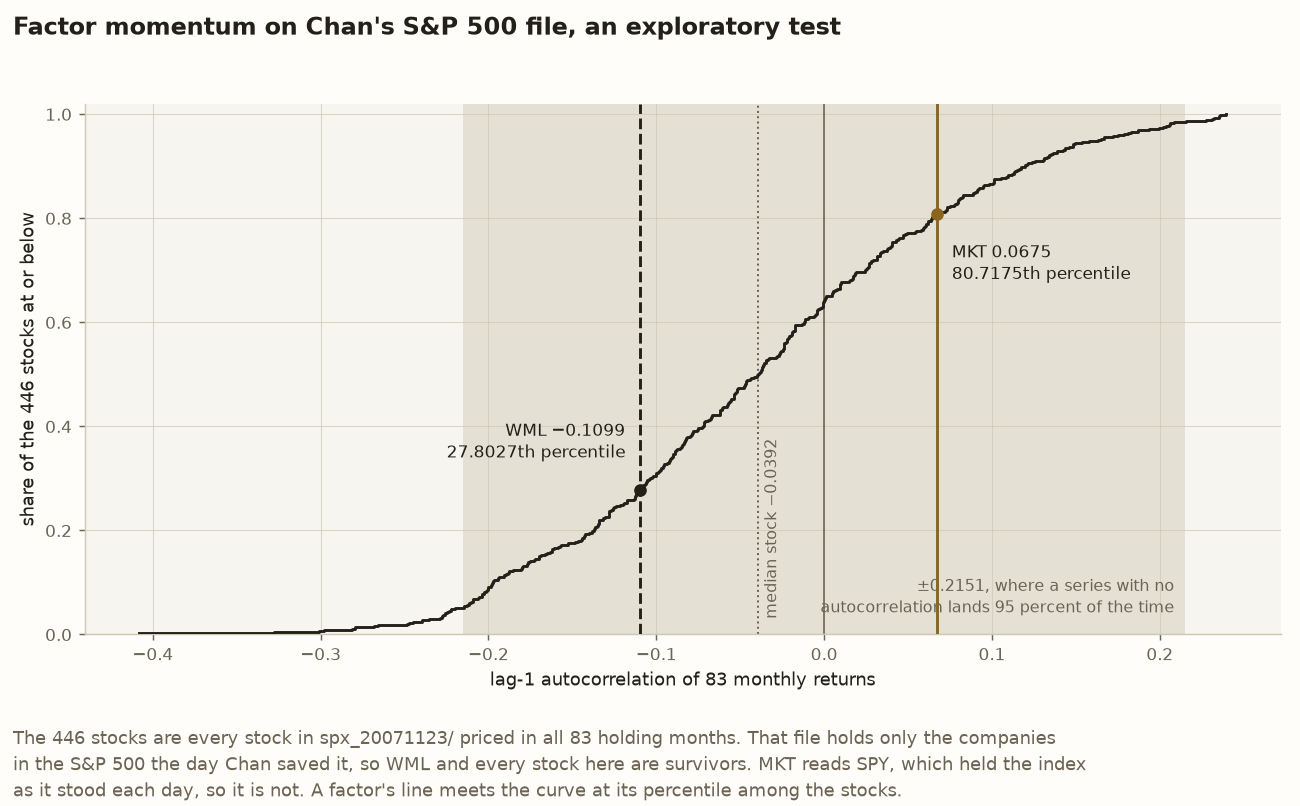
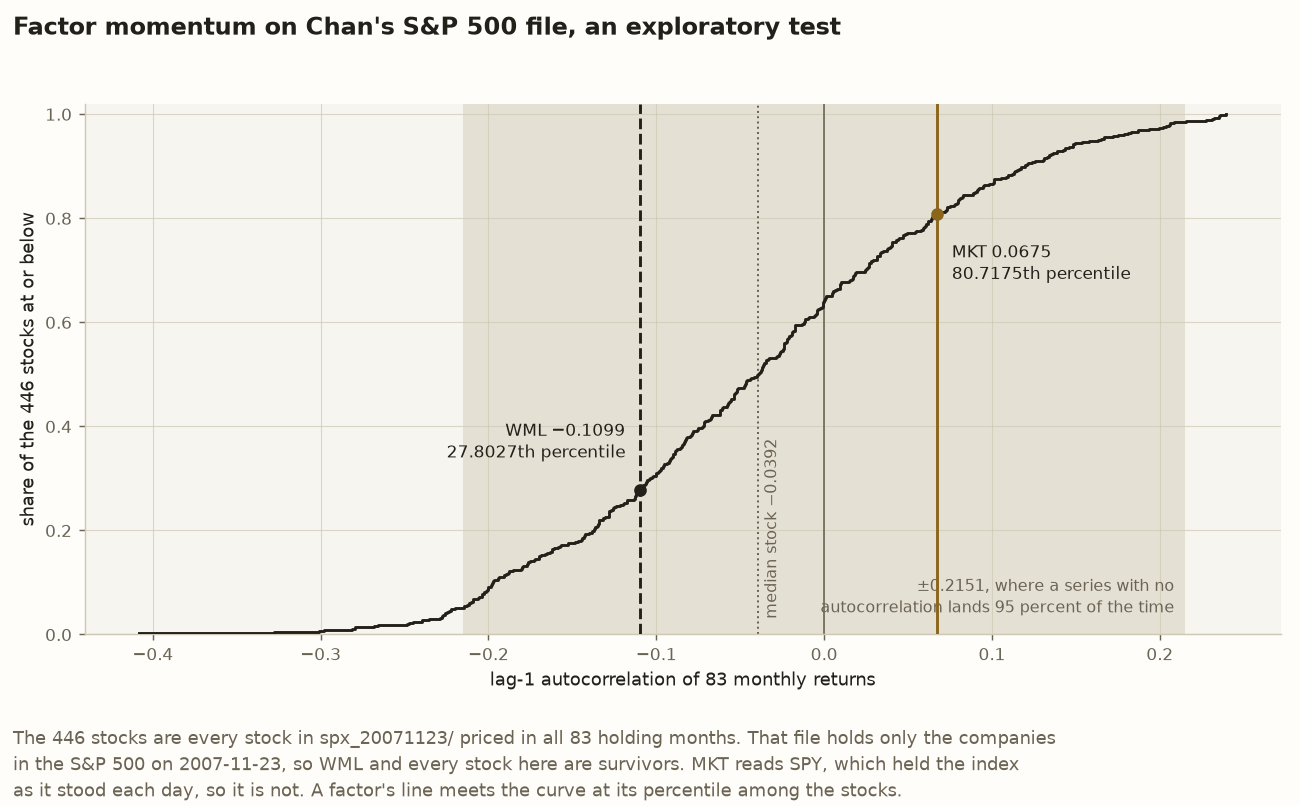
fix(blog): act on the review of the factor models post
The over-reach and completeness reviews found claims past the evidence:
every printout forward-filling PMC, MKT's persistence stated without the
band, a title saying the model reproduces when the R does not, and
smartstd described by one of its two versions. The exploratory label now
sits beside Lessons 1 and 2's verdicts, Entries 13 and 14 say the post
quotes most of their figures, and README names the S&P 500 span's pin,
the printout pages and the three source commits.

TestTheSplice now pins both ends of PMC's 851-day gap, and the figure's
test pins the median inside the band and math parsing off on the axes.
The figure's note dates the panel to 2007-11-23 rather than its save.

Part of #282

Changed region(s): [[0.1231, 0.9305, 0.8308, 0.9615]]

diff --git a/tests/test_momentum_factor_figures.py b/tests/test_momentum_factor_figures.py
@@ -8,10 +8,13 @@ repeat here on purpose, because a figure's labels are prose and the suite is
 the authority for every number prose quotes. No test compares bytes, for the
 reason ``tests/test_regime_figure.py`` gives.
 
-The vintages are the three ``tests/test_momentum_factor.py`` names:
-``spx_20071123/``, the 500 S&P 500 members lifted from Chan's
-``SPX_20071123.mat``, saved 2007-11-24, ``spy_chan.csv`` from Chan's
-``example6_2.xls``, saved 2008-01-29, and FRED's TB3MS downloaded 2026-09-30.
+The vintages are the three ``tests/test_momentum_factor.py`` names.
+
+1. ``spx_20071123/``, the 500 S&P 500 members lifted from Chan's
+   ``SPX_20071123.mat``, saved 2007-11-24.
+2. ``spy_chan.csv``, from Chan's ``example6_2.xls``, saved 2008-01-29.
+3. FRED's TB3MS, downloaded 2026-09-30.
+
 The specification is :mod:`chan.momentum_factor` as
 [issue 22](https://github.com/l3a0/quantitative-trading/issues/22) fixed it.
 Like the test it draws, the figure is exploratory.
@@ -128,8 +131,9 @@ class TestTheBand:
         assert round(_band_edges(figure)[1], 4) == 0.2151
         assert round(_band_edges(figure)[0], 4) == -0.2151
 
-    def test_both_factors_sit_inside_it(self, figure, comparison) -> None:
-        for value in (comparison.mkt, comparison.wml):
+    def test_both_factors_and_the_median_sit_inside_it(self, figure, comparison) -> None:
+        """What the post's caption says, so the caption has a pin."""
+        for value in (comparison.mkt, comparison.wml, comparison.median):
             assert -comparison.band < value < comparison.band
 
 
@@ -159,13 +163,21 @@ class TestTheWords:
         assert note.startswith(
             "The 446 stocks are every stock in spx_20071123/ priced in all 83 holding months."
         )
-        assert "so WML and every stock here are survivors." in note
+        assert "in the S&P 500 on 2007-11-23, so WML and every stock here are survivors." in note
         assert "MKT reads SPY, which held the index as it stood each day, so it is not." in note
 
     def test_no_label_is_parsed_as_math(self, figure) -> None:
         """The title carries an ampersand and the labels minus signs, so math
         parsing stays off the way it does for the other figures."""
-        for text in [*figure.axes[0].texts, *figure.texts]:
+        ax = figure.axes[0]
+        for text in [
+            *ax.texts,
+            *figure.texts,
+            ax.xaxis.label,
+            ax.yaxis.label,
+            *ax.get_xticklabels(),
+            *ax.get_yticklabels(),
+        ]:
             assert text.get_parse_math() is False
 
     def test_nothing_wears_a_verdict_colour(self, figure) -> None:

diff --git a/src/chan/momentum_factor_figures.py b/src/chan/momentum_factor_figures.py
@@ -20,12 +20,14 @@ cumulative curve, with MKT, WML, the median stock, zero and the band on it.
    equals either factor's, so the share at or below and the share strictly
    below, which :meth:`chan.momentum_factor.Comparison.percentile` counts,
    agree.
-3. **The band shaded**, ±1.96/√83, where a series with no autocorrelation
-   lands about 95 percent of the time. Both factors sit inside it.
+3. **The band is shaded.** It runs ±1.96/√83, where a series with no
+   autocorrelation lands about 95 percent of the time. Both factors sit
+   inside it.
 
-Nothing is drawn in the verdict colours, because Lesson 4 says neither verdict
-is distinguishable from noise. The title says the test is exploratory, and the
-note says ``spx_20071123/`` holds only survivors while SPY does not.
+The figure uses neither the green nor the red that other figures here give a
+verdict, because Lesson 4 says neither verdict can be told from noise. The
+title says the test is exploratory, and the note says ``spx_20071123/`` holds
+only survivors while SPY does not.
 
 Every value comes from one :class:`chan.momentum_factor.Comparison`, so the
 figure can only be wrong by drawing the wrong thing, which
@@ -147,7 +149,7 @@ def make_autocorrelation_figure(comparison: Comparison, out: Path | None = None)
         "Factor momentum on Chan's S&P 500 file, an exploratory test",
         f"The {count} stocks are every stock in spx_20071123/ priced in all {comparison.months} "
         "holding months. That file holds only the companies\n"
-        "in the S&P 500 the day Chan saved it, so WML and every stock here are survivors. "
+        "in the S&P 500 on 2007-11-23, so WML and every stock here are survivors. "
         "MKT reads SPY, which held the index\n"
         "as it stood each day, so it is not. A factor's line meets the curve at its "
         "percentile among the stocks.",

diff --git a/tests/test_pca_factor.py b/tests/test_pca_factor.py
@@ -279,6 +279,12 @@ class TestTheSplice:
         assert filled[day] / filled.shift()[day] - 1 == pytest.approx(1.8654, abs=5e-5)
         gap = closes[SPLICED].loc["2004-03-15":"2007-07-31"]
         assert gap.isna().all() and len(gap) == 851
+        # Both ends are priced, so 851 is the whole gap rather than part of it.
+        before, after = closes.index.get_indexer(
+            [pd.Timestamp("2004-03-12"), pd.Timestamp("2007-08-01")]
+        )
+        assert after - before == 852
+        assert closes[SPLICED].iloc[[before, after]].notna().all()
 
     def test_each_printout_without_pmc(self, results: Results) -> None:
         assert results.first_unspliced.annual == pytest.approx(-1.8014, abs=5e-5)

diff --git a/blog/factor-models-lessons.md b/blog/factor-models-lessons.md
@@ -1,18 +1,18 @@
-# Chan’s factor model reproduces, and the round-off he blames is a second strategy
+# Three of Chan’s four factor-model printouts reproduce, and the round-off he blames is a second strategy
 
-*Three of the four printouts of Example 7.4 land on Chan’s own figures. The 2 against 4 percent between them is two methods. And the momentum the strategy assumes held for the market factor, not the momentum factor, on too few months to tell either from noise.*
+*Three of the four printouts of Example 7.4 land on Chan’s own figures. His 2 and 4 percent come from two methods, not round-off. And the momentum the strategy assumes held for the market factor, not the momentum factor, on too few months to tell either from noise.*
 
 ## Why a factor model has to persist to trade
 
 A factor model explains a stock’s return by a few common drivers, such as the market as a whole, small companies against large ones, or recent winners against recent losers. Each driver has a return of its own each period, called the factor return, and each stock has a sensitivity to it, called its exposure. The fit is contemporaneous. It explains this month’s returns with this month’s factor returns, so on its own it says nothing about next month.
 
-Ernest Chan’s *Quantitative Trading* names the bridge from explanation to trading. “Often factor returns are more stable than individual stock returns”, he writes. They “exhibit stronger serial autocorrelations than individual stock’s returns”, and so they “have momentum” (Chan, 2021, p. 162). If a factor’s return this period predicts its return next period, a model can carry this period’s factor returns forward and rank the stocks on what they imply.
+Ernest Chan’s *Quantitative Trading* names the bridge from explanation to trading. “Often factor returns are more stable than individual stock returns”, he writes. They “exhibit stronger serial autocorrelations than individual stock’s returns”, and in other words they “have momentum” (Chan, 2021, p. 162). If a factor’s return this period predicts its return next period, a model can carry this period’s factor returns forward and rank the stocks on what they imply.
 
 Example 7.4 is built on that assumption. It takes five statistical factors from a year of returns on the S&P 600, assumes, in Chan’s words, that the factor returns “remain constant from the current time period to the next”, and buys the stocks with the highest expected returns (p. 164). He reports 2 percent a year from the MATLAB program and 4 percent from the Python and R, before costs, and calls the difference “essentially round off errors” (p. 164).
 
-This repository ran every printout of Example 7.4 it could run on Chan’s own file, read the one it could not, and separately built the two factors Chan’s section names that need only prices, to test whether their returns persist. Six lessons follow. The code is open source at [l3a0/quantitative-trading](https://github.com/l3a0/quantitative-trading).
+This repository ran every printout of Example 7.4 it could run on Chan’s own file, read the one it could not, and separately built the two factors in Chan’s list that need only prices, to test whether their returns persist. Six lessons follow. The code is open source at [l3a0/quantitative-trading](https://github.com/l3a0/quantitative-trading).
 
-Every result below is **exploratory**. Reproducing a printed figure, or testing a claim someone else chose, spends the sample on a hypothesis Chan chose. It says whether his numbers reproduce on his file, and nothing about whether factor models earn money today.
+Every result below is **exploratory**. Reproducing a printed figure, or testing a claim from the book, tests a hypothesis Chan chose rather than one written down here in advance. It says whether his numbers reproduce on his file, and nothing about whether factor models earn money today.
 
 ## How Example 7.4 and the two factors work
 
@@ -31,24 +31,24 @@ The file is Chan’s `IJR_20080114.mat`, the 600 members of the S&P 600 as he sa
 
 Two of the factors Chan’s section names can be built from prices alone, and this repository built both.
 
-1. **MKT, the market factor.** Chan names “the return of the market” as the first of Fama and French’s three factors (p. 160). Here it is SPY’s return from one month-end to the next, less that month’s three-month Treasury bill rate over 12. Subtracting the bill follows Kenneth French’s published market factor. That step is not Chan’s.
+1. **MKT, the market factor.** Chan names “the return of the market” as the first of Fama and French’s three factors (p. 160). Here it is SPY’s return from one month-end to the next, less that month’s three-month Treasury bill rate divided by 12. Chan’s words name only the return of the market. Subtracting the bill follows Kenneth French’s published market factor, so that step comes from French rather than from Chan.
 2. **WML, winners minus losers.** Chan defines it as a portfolio that buys stocks “that previously had positive returns” and shorts those “that previously had negative returns” (p. 162). Here, at each month-end, a stock is a winner if its return from 12 months back to 1 month back was positive and a loser if it was negative. Each leg is equally weighted and held one month. Skipping the latest month follows French’s momentum factor. Chan names no lookback.
 
 Both run on two more of Chan’s files and one public series.
 
 1. `SPX_20071123.mat`, the 500 members of the S&P 500 as he saved them on 2007-11-24, spanning 1999-11-24 to 2007-11-23.
 2. The SPY column of his `example6_2.xls`, saved 2008-01-29.
-3. The Federal Reserve’s three-month bill rate, TB3MS, downloaded from FRED on 2026-09-30.
+3. The three-month Treasury bill rate, TB3MS, downloaded on 2026-09-30 from FRED, the St. Louis Fed’s data service.
 
-The month-ends are the file’s rows whose next row falls in another month, which is Chan’s own rule, and there are 96 of them. That leaves 83 holding months, from December 2000 to October 2007. A stock enters a month only if it has a close at every month-end the formation reads, which leaves 442 to 494 stocks at each formation.
+The month-ends are the file’s rows whose next row falls in another month, which is Chan’s own rule, and there are 96 of them. The first formation needs 12 month-ends of history behind it, so 83 holding months remain, from December 2000 to October 2007. A stock enters a month only if it has a close at every month-end the formation reads, which leaves 442 to 494 stocks at each formation.
 
-**The statistic** is each series’ lag-1 autocorrelation, the correlation of each month’s return with the month before. Chan’s “individual stock’s returns” stand here as the median of the 446 stocks with a return in all 83 months.
+**The statistic** is each series’ lag-1 autocorrelation, the correlation of each month’s return with the month before. Chan’s “individual stock’s returns” stand here as the median of the 446 stocks with a return in all 83 months. A stock can hold a return in every month and still miss an early formation for want of its year of history, which is how the 446 can exceed the fewest eligible.
 
-**Which edition says what.** The first edition (2009) prints Example 7.4 in MATLAB, cited here by script as `example7_4.m` at commit `1a71950` of the egorpe/EPChan-QuantitativeTrading mirror. The revised edition (2021) prints it in MATLAB, Python and R on pp. 163 to 167. Its MATLAB and Python are also cited by public reposts, pinhaocheng/epchan-quant_trading_MATLAB_codes at `7430b84` and pinhaocheng/epchan-quant_trading_Python_codes at `5fcab61`. Its R is read from the pages alone. Page numbers here are the revised edition’s. Whether the first edition carries the sentences quoted above from p. 162 was not checked.
+**Which edition says what.** The first edition (2009) prints Example 7.4 in MATLAB, cited here by script as `example7_4.m` at commit `1a71950` of the egorpe/EPChan-QuantitativeTrading mirror. The revised edition (2021) prints it in MATLAB, Python and R on pp. 163 to 167. This post also cites its MATLAB and Python through public reposts, pinhaocheng/epchan-quant_trading_MATLAB_codes at `7430b84` and pinhaocheng/epchan-quant_trading_Python_codes at `5fcab61`, and reads its R from the pages alone. Page numbers here are the revised edition’s. This repository did not check whether the first edition carries the sentences quoted above from p. 162.
 
 ## Lesson 1: three of the four printouts reproduce, and the fourth prints another program’s figures
 
-Here is every figure the four printouts print, at the precision each prints it, beside whether this repository’s run of that printout lands on it.
+Here is every figure the four printouts show, at the precision each prints it, beside whether this repository’s run of that printout lands on it. Each row is an **exploratory** reproduction.
 
 ```math
 \begin{array}{l|r|l}
@@ -66,8 +66,8 @@ Here is every figure the four printouts print, at the precision each prints it, 
 The revised MATLAB prints its figures on p. 164, the Python on p. 165 and the R on p. 167. Three points sit behind the table.
 
 1. **The first edition’s figure is in other units.** Its daily figure sums 100 positions of ±1 and never divides by capital. So −1.8099 is a sum over positions, not a return on capital, and it cannot be set beside the revised edition’s 2 percent. The [equity seasonals post](https://github.com/l3a0/quantitative-trading/blob/main/blog/equity-seasonals-lessons.md) met the same thing in Example 7.7.
-2. **The R’s own code reaches neither reading of its printed figures.** The R prints the Python’s three figures to the last digit, but its code differs from the Python’s. It buys 52 stocks rather than 50, among other differences. Read without filling gaps, it gives 0.0401, 0.0797 and 0.5038. Read with gaps filled by the last price, it gives 0.0426, 0.0802 and 0.5319. The R also loads a helper file, `calculateReturns.R`, that the book does not print, and this repository has no R runtime, so the R row is a reading of the code rather than a run of it. [Issue 271](https://github.com/l3a0/quantitative-trading/issues/271) runs it.
-3. **The revised Sharpe ratio needs a helper from another book.** The revised MATLAB calls `smartstd`, a standard deviation that skips missing days, and the page does not print its body. Chan’s two books ship two versions. The one from *Algorithmic Trading* lands the printed 0.211120, and the revised repost carries that one. The one from this book’s first edition gives 0.2441.
+2. **Neither reading of the R’s code reaches the figures it prints.** The R prints the Python’s three figures to the last digit, but its code differs from the Python’s. It buys 52 stocks rather than 50, among other differences. Read without filling gaps, it gives 0.0401, 0.0797 and 0.5038. Read with gaps filled by the last price, it gives 0.0426, 0.0802 and 0.5319. The R also loads a helper file, `calculateReturns.R`, that the book does not print, and this repository has no R runtime, so the R row is a reading of the code rather than a run of it. [Issue 271](https://github.com/l3a0/quantitative-trading/issues/271) will run it.
+3. **The revised Sharpe ratio needs a helper from another book.** The revised MATLAB computes its standard deviation with a helper, `smartstd`, and Chan’s two books ship two versions of it. The one from his *Algorithmic Trading* reproduces the printed 0.211120, and the revised repost carries that one. The one from this book’s first edition gives 0.2441.
 
 ## Lesson 2: Chan’s round-off is a second strategy
 
@@ -79,9 +79,9 @@ The revised Python regresses each stock’s returns over the year, rᵢₜ, on a
 r_{i,t} = a_i + \sum_{k=1}^{5} b_{ik} f_{k,t} + e_{i,t}, \quad \sum_t e_{i,t} = 0 \;\Rightarrow\; \sum_t \hat r_{i,t} = \sum_t r_{i,t}
 ```
 
-1. **The Python never uses its factors.** It ranks the stocks on the sum of the fitted values, which by the line above is each stock’s own return over the year. So it is a momentum strategy on single stocks, and its book is identical on every day to a ranking with the principal component analysis left out.
+1. **The Python never uses its factors.** It ranks the stocks on the sum of the fitted values, which by the line above is each stock’s own return over the year. So it is a momentum strategy on single stocks, and its book, the set of positions it holds each day, is identical on every day to a ranking with the principal component analysis left out.
 2. **The revised MATLAB does use them.** It fits today’s cross-section of returns on the stocks’ factor exposures, with an intercept, and ranks on the fitted values. That is a factor model in the sense the text describes.
-3. **The two books barely overlap.** The printed Python buys 49 stocks, because its index range skips the top-ranked one, while the MATLAB buys 50. So the comparison gives the Python 50 longs as well. On the 752 days both trade, the Python’s book matches the MATLAB’s on 0 of them and differs in at least 125 positions on each. On a mean day, 13.83 percent of the MATLAB’s names sit on the same side of the printed Python’s book, and 14.14 percent at one size. Round-off would leave two books of one size identical every day.
+3. **The two books barely overlap.** The printed Python buys 49 stocks, because its index range skips the top-ranked one, while the MATLAB buys 50. So the comparison gives the Python 50 longs as well. On the 752 days both hold positions, the Python’s book matches the MATLAB’s on 0 of them and differs in at least 125 positions on each. On an average day, 13.83 percent of the MATLAB’s names sit on the same side of the printed Python’s book, and 14.14 percent once the Python also buys 50. Round-off would leave two books of the same size identical every day.
 4. **Three bookkeeping choices each pull the Python’s figure down toward the MATLAB’s.** Change any one and the Python’s figure rises.
 
 ```math
@@ -90,18 +90,18 @@ r_{i,t} = a_i + \sum_{k=1}^{5} b_{ik} f_{k,t} + e_{i,t}, \quad \sum_t e_{i,t} = 
 \text{As printed} & 0.04052422056844459 & 0.5786769963588398 \\
 \text{Buying the top 50, not the 49 ranked second to 50th} & 0.0414 & 0.5908 \\
 \text{Averaging over its 751 trading days, not all 1,006} & 0.0543 & 0.6699 \\
-\text{Keeping the first book its code clears} & 0.0417 & 0.5945 \\ \hline
+\text{Keeping the first day's book, which its code zeroes} & 0.0417 & 0.5945 \\ \hline
 \text{Revised MATLAB, as printed} & 0.020205 & 0.211120
 \end{array}
 ```
 
-So the gap between 2 and 4 percent is method. The bookkeeping narrows it rather than causing it.
+So the gap between 2 and 4 percent is method, an **exploratory** verdict on Chan’s file. The bookkeeping narrows the gap rather than causing it.
 
-The criterion that decided this verdict has a cost, which Entry 13 of the replication log names. What would count as round-off, two books of one size identical every day, was written on [issue 21](https://github.com/l3a0/quantitative-trading/issues/21) after the overlap had been measured. Lesson 5 comes back to why that order matters.
+[Entry 13 of the replication log](https://github.com/l3a0/quantitative-trading/blob/main/docs/replication-log.md#entry-13-the-pca-factor-model-chans-quantitative-trading) wrote that round-off criterion after measuring the overlap, and Lesson 5 says what that costs.
 
 ## Lesson 3: the momentum the strategy assumes held for the market factor and not for the momentum factor
 
-Chan’s claim is that factor returns “often” autocorrelate more strongly than single stocks. Before any autocorrelation was computed, [issue 22](https://github.com/l3a0/quantitative-trading/issues/22) fixed a criterion for each factor on its own. The claim holds for a factor when its lag-1 autocorrelation is above 0 and above the median stock’s. The repository’s owner ruled the same day, also before, that each factor carries its own verdict and that no combined verdict is drawn from the two.
+Chan’s claim is that factor returns “often” autocorrelate more strongly than single stocks. Before any autocorrelation was computed, [issue 22](https://github.com/l3a0/quantitative-trading/issues/22) fixed a criterion for each factor on its own. The claim holds for a factor when its lag-1 autocorrelation is above 0 and above the median stock’s. On the same day, still before any autocorrelation was computed, the repository’s owner ruled that each factor carries its own verdict and that no combined verdict is drawn from the two.
 
 ```math
 \begin{array}{l|r|r|l}
@@ -116,12 +116,12 @@ Chan’s claim is that factor returns “often” autocorrelate more strongly th
 
 Each verdict is **exploratory** and stands on its own.
 
-1. **For MKT, the claim holds.** Chan says factors “often” show stronger autocorrelation than single stocks. MKT’s 0.0675 is above 0 and above the median stock’s −0.0392. It sits above 360 of the 446 stocks.
-2. **For WML, the claim does not hold.** Chan says factors “often” show it. WML’s −0.1099 is below 0 and below the median stock. It sits above only 124 of the 446 stocks, so on this file the momentum factor is less persistent than most single stocks.
+1. **For MKT, the claim that factors “often” autocorrelate more strongly holds.** MKT’s 0.0675 is above 0 and above the median stock’s −0.0392. It sits above 360 of the 446 stocks.
+2. **For WML, the claim that factors “often” autocorrelate more strongly does not hold.** WML’s −0.1099 is below 0 and below the median stock. It sits above only 124 of the 446 stocks, so on this file the momentum factor is less persistent than most single stocks.
 
 The quartiles are by linear interpolation between the two nearest stocks.
 
-**What was not tested.** Entry 14 tested the claim Example 7.4 rests on. It did not test Example 7.4’s own factors. Those are five statistical factors, on daily returns, on the S&P 600 file. MKT and WML are named factors, on monthly returns, on the S&P 500 file. And by Lesson 2 the revised Python rests on each stock’s own momentum over the year, not on any factor’s momentum. So neither verdict is a verdict on Example 7.4. [Issue 286](https://github.com/l3a0/quantitative-trading/issues/286) tests Example 7.4’s own factor returns.
+**What was not tested.** Entry 14 tested the claim Example 7.4 rests on. It did not test Example 7.4’s own factors. Those are five statistical factors, on daily returns, on the S&P 600 file. MKT and WML are named factors, on monthly returns, on the S&P 500 file. And by Lesson 2 the revised Python rests on each stock’s own momentum over the year, not on any factor’s momentum. So neither verdict is a verdict on Example 7.4. [Issue 286](https://github.com/l3a0/quantitative-trading/issues/286) will test Example 7.4’s own factor returns.
 
 ## Lesson 4: a verdict can follow the declared criterion and still rest on almost nothing
 
@@ -137,27 +137,27 @@ Both factors sit inside that band. So 83 months cannot tell MKT’s 0.0675 from 
 
 The figure below draws all of it at once. The curve is the 446 stocks’ autocorrelations, sorted, with the height at each point giving the share of stocks at or below it. Each factor’s line meets the curve at its percentile, and the shaded band is ±0.2151.
 
-![A step curve of the 446 stocks’ lag-1 autocorrelations over 83 months, rising from 0 to 1. A shaded band covers −0.2151 to 0.2151. A dashed vertical line for WML at −0.1099 meets the curve at the 27.8027th percentile, a solid line for MKT at 0.0675 meets it at the 80.7175th, and a dotted line marks the median stock at −0.0392. Both factor lines and the median sit inside the band. The title calls the test exploratory, and the note says the stocks and WML are survivors while MKT, from SPY, is not.](../docs/figures/factor_momentum_autocorrelations.png)
+![A step curve of the 446 stocks’ lag-1 autocorrelations over 83 months, rising to 1. A shaded band covers −0.2151 to 0.2151. A dashed vertical line for WML at −0.1099 meets the curve at the 27.8027th percentile, a solid line for MKT at 0.0675 meets it at the 80.7175th, and a dotted line marks the median stock at −0.0392. Both factor lines and the median sit inside the band. The title calls the test exploratory, and the note says the stocks and WML are survivors while MKT, from SPY, is not.](../docs/figures/factor_momentum_autocorrelations.png)
 
 *Both factors and the median stock sit inside the band where a series with no autocorrelation lands 95 percent of the time.*
 
-The two factors’ average returns belong here too, and they decide nothing. MKT earned 0.0185 a year over the bill, with a plain t-statistic of 0.3660. WML earned 0.0241 a year, with a t-statistic of 0.4505. Each is the mean monthly return times 12, and neither t-statistic is corrected for autocorrelation.
+The two factors’ average returns are just as uncertain, and they decide nothing. MKT earned 0.0185 a year over the bill and WML 0.0241. A t-statistic divides an average by how far it would wander by chance, and values near 0 are what luck alone produces. MKT’s is 0.3660 and WML’s 0.4505, with no correction for autocorrelation. Each annual figure is the mean monthly return times 12.
 
 ## Lesson 5: fix the rule before the number
 
-The order in which a rule and its number arrive decides what a verdict can claim. The two entries arrived in opposite orders, and this post states both rather than hiding one.
+The order in which a rule and its number arrive decides what a verdict can claim. The two entries arrived in opposite orders.
 
 1. **Entry 14 fixed every rule first.** The criterion, the monthly frequency, the one-month skip and the comparison set were written on [issue 22](https://github.com/l3a0/quantitative-trading/issues/22) before any autocorrelation was computed, and the owner’s ruling that each factor stands alone came before too. So neither verdict can have been chosen to fit the result. The cost is that a daily autocorrelation was never tried after the monthly one was seen.
-2. **Entry 13 wrote its round-off criterion after measuring.** The rule that round-off would leave books of one size identical every day was written on [issue 21](https://github.com/l3a0/quantitative-trading/issues/21) after the 0 of 752 was in hand, and the entry names that cost. A rule written after its number cannot show on its own that it was not fitted to that number, so this post states the order rather than letting the two entries read as one kind of result.
+2. **Entry 13 wrote its round-off criterion after measuring.** The rule that round-off would leave books of the same size identical every day was written on [issue 21](https://github.com/l3a0/quantitative-trading/issues/21) after the 0 of 752 was in hand, and the entry names that cost. A rule written after its number cannot show on its own that it was not fitted to that number.
 
 ## Lesson 6: every figure that touches the stocks is about survivors
 
-Both stock files hold their index as it stood on the day Chan saved them, carried backwards. A company that left the S&P 500 in 2003 is not in a file saved in 2007. The [post on survivorship and transaction costs](https://github.com/l3a0/quantitative-trading/blob/main/blog/survivorship-and-transaction-costs.md) teaches what that does in general. Here it reaches four things.
+Both stock files hold their index as it stood on the last day each file reaches, carried backwards. A company that left the S&P 500 in 2003 is not in a file saved in 2007. The [post on survivorship and transaction costs](https://github.com/l3a0/quantitative-trading/blob/main/blog/survivorship-and-transaction-costs.md) teaches what that does in general. Here survivorship reaches three things, and the way the file was built reaches a fourth.
 
 1. **Example 7.4’s books, all of them.** Every printout ranks and trades only the 600 stocks still in the S&P 600 on 2008-01-14.
 2. **WML and the median stock.** The loser leg lacks the losers that fell out of the index, which pushes WML down. The winner leg lacks past winners that later collapsed out of it, which pushes WML up. Which of the two dominates is not measured, so this post does not guess a direction.
 3. **Where the median sits.** The median stock’s autocorrelation is −0.0392, below 0, so on this file a factor above 0 is also above the median stock. That is a fact about this panel of survivors, not about single stocks in general.
-4. **One symbol holds two price histories.** PMC in the S&P 600 file closes, goes missing for 851 days, and resumes as a different price history under the same ticker. Every printout fills the gap with the last price, so when the second history begins on 2007-08-01 the file shows one day’s return of 1.8654. Without PMC, the first edition gives −1.8014, the revised MATLAB 0.0180 at a Sharpe ratio of 0.1869, and the revised Python 0.0408 at 0.5851.
+4. **One symbol holds two price histories.** PMC in the S&P 600 file closes, goes missing for 851 days, and resumes as a different price history under the same ticker. The three printouts that run fill the gap with the last price, so when the second history begins on 2007-08-01 the file shows one day’s return of 1.8654. Without PMC, the first edition gives −1.8014, the revised MATLAB 0.0180 at a Sharpe ratio of 0.1869, and the revised Python 0.0408 at 0.5851.
 
 MKT is the exception. It reads SPY, which held the index as it stood each day, so it carries no survivorship.
 
@@ -170,7 +170,7 @@ Seven things.
 3. **What costs would take.** Every printout charges none, and the books turn over daily.
 4. **What survivorship does to WML.** [Issue 198](https://github.com/l3a0/quantitative-trading/issues/198) waits on a panel of the index as it stood each day.
 5. **Whether the factors persist at another frequency.** Only monthly returns were computed, by the rule on [issue 22](https://github.com/l3a0/quantitative-trading/issues/22).
-6. **Whether French’s published factors agree, and what SMB and HML do.** [Issue 274](https://github.com/l3a0/quantitative-trading/issues/274) records French’s library as a vintage, and [issue 273](https://github.com/l3a0/quantitative-trading/issues/273) carries the two factors that need company size and book value.
+6. **Whether French’s published factors agree, and what his size and value factors, SMB and HML, do.** [Issue 274](https://github.com/l3a0/quantitative-trading/issues/274) records French’s library as a vintage, and [issue 273](https://github.com/l3a0/quantitative-trading/issues/273) carries the two factors that need company size and book value.
 7. **Whether Example 7.4’s own factor returns have momentum.** Nothing here tested them. [Issue 286](https://github.com/l3a0/quantitative-trading/issues/286) will.
 
 ## What this means for a trader
@@ -178,12 +178,13 @@ Seven things.
 Three habits follow from the lessons above.
 
 1. **Run every printout of a published strategy before trusting the author’s account of why they differ.** Chan’s round-off turned out to be a factor model in one language and single-stock momentum in another.
-2. **Check what a strategy’s assumption rests on before trading it, and test it under a rule written first.** Example 7.4 assumes factor returns persist. On this file the market factor’s did and the momentum factor’s did not.
+2. **Check what a strategy’s assumption rests on before trading it, and test it under a rule written first.** On Chan’s S&P 500 file the market factor passed the declared test and the momentum factor failed it, both inside the range of no persistence, and neither is one of Example 7.4’s own factors.
 3. **Read a verdict beside the band that says how much the sample can tell.** Both autocorrelations sit inside the range a series with no persistence produces 95 times in 100.
 
 ## References
 
 - Chan, E. P. (2009). *Quantitative Trading: How to Build Your Own Algorithmic Trading Business*. Wiley. Example 7.4, cited by its MATLAB script, `example7_4.m`.
+- Chan, E. P. (2013). *Algorithmic Trading: Winning Strategies and Their Rationale*. Wiley. Cited for its `smartstd`.
 - Chan, E. P. (2021). *Quantitative Trading: How to Build Your Own Algorithmic Trading Business* (2nd ed.). Wiley. Pages 160, 162, 163 and 164, and Example 7.4 at pp. 163 to 167.
 - Fama, E. F., & French, K. R. (1992). The cross-section of expected stock returns. *Journal of Finance*, 47(2), 427–465. Cited by Chan (2021, p. 160) for the three-factor model.
 - French, K. R. *Data Library*. Tuck School of Business, Dartmouth College. The source of the market factor’s step over the bill rate and the momentum factor’s skip of the latest month.

diff --git a/README.md b/README.md
@@ -1349,8 +1349,8 @@ exploratory.
 3. The momentum the strategy assumes held for the market factor and not for
    the momentum factor, each verdict standing on its own.
 4. A verdict can follow the declared criterion and still rest on almost
-   nothing, because both autocorrelations sit inside the band of no
-   autocorrelation.
+   nothing, because both autocorrelations sit inside the range a series with
+   no autocorrelation lands in 95 percent of the time.
 5. Fix the rule before the number, which Entry 14 did and Entry 13's
    round-off criterion did not.
 6. Every figure that touches the stocks is about survivors, and the market
@@ -1362,28 +1362,39 @@ Four groups of its figures are not pinned here.
    Kindle Cloud Reader on 2026-10-03 from the Annotations panel, which labels
    each highlight with the page it starts on. "The return of the market"
    (location 3978) is on p. 160. WML's definition (location 4004), and
-   "often", "stronger serial autocorrelations" and "have momentum" (location
-   4014), are on p. 162. The setup of statistical factors (location 4034) is
-   on p. 163. "Remain constant from the current time period to the next",
-   "only 2% (MATLAB) to 4% (Python and R)" and "essentially round off errors"
-   (location 4051) are on p. 164. The suite pins the 2 and the 4 as whole
-   percents, not the words.
+   "often factor returns are more stable than individual stock returns",
+   "stronger serial autocorrelations", "individual stock's returns" and "have
+   momentum" (location 4014), are on p. 162. The setup of statistical factors
+   (location 4034) is on p. 163. "Remain constant from the current time
+   period to the next", "only 2% (MATLAB) to 4% (Python and R)" and
+   "essentially round off errors" (location 4051) are cited at p. 164, where
+   that highlight starts. A quotation late in a highlight could fall on the
+   next page, which the panel cannot show. Example 7.4 itself runs from p. 163
+   to p. 167, with the revised MATLAB's figures on p. 164, the Python's on
+   p. 165 and the R's on p. 167, as Entry 13 records from the same reader. The
+   suite pins the 2 and the 4 as whole percents, not the words.
 2. Facts outside the committed data. That French's market factor subtracts
    the bill rate and his momentum factor skips the latest month. That the
    revised MATLAB repost at `7430b84` carries *Algorithmic Trading*'s
-   `smartstd`. The Fama and French citation and its publication details.
+   `smartstd`. The commits the sources are read at: `1a71950` of the
+   first-edition mirror, `7430b84` of the MATLAB repost and `5fcab61` of the
+   Python repost. The Fama and French citation and its publication details.
 3. Counts and arithmetic no test asserts. Each autocorrelation of 83 months
    rests on 82 pairs. 1.96 marks a two-sided 5 percent, which is what puts
    the band at 95 percent. Each annual mean is the monthly mean times 12. The
    Python's 255 rows with no position are its 1,006 rows less its 751 traded
    days.
-4. Its references. The four citations are cited rather than computed.
+4. Its references. The five citations are cited rather than computed.
 
 Every other number in the post traces to an assertion in
 [tests/test_pca_factor.py](tests/test_pca_factor.py) or
-[tests/test_momentum_factor.py](tests/test_momentum_factor.py), or to
+[tests/test_momentum_factor.py](tests/test_momentum_factor.py), to
+[tests/test_equity_seasonals.py](tests/test_equity_seasonals.py)'s
+`TestTheVintages::test_the_large_cap_panel` for the S&P 500 file's span, or to
 [tests/test_momentum_factor_figures.py](tests/test_momentum_factor_figures.py)
-for the figure's own labels.
+for the figure's own labels. One figure was half pinned before it, and
+`TestTheSplice::test_pmc_forward_fills_into_one_days_return` now pins both
+ends of PMC's 851-day gap rather than only the days inside it.
 
 Its one figure is drawn from the committed S&P 500 file by
 [src/chan/momentum_factor_figures.py](src/chan/momentum_factor_figures.py). It

diff --git a/docs/replication-log.md b/docs/replication-log.md
@@ -2907,7 +2907,7 @@ daily.
 Nothing checks this entry against the suite, for the reason Entry 1 states. A
 change to any assertion named above moves this entry in the same commit, and
 [blog/factor-models-lessons.md](../blog/factor-models-lessons.md) moves with
-it, since that post's Lessons 1 and 2 quote these figures.
+it, since that post quotes most of these figures.
 
 ## Entry 14: the market and momentum factors, Chan's *Quantitative Trading*
 
@@ -3073,8 +3073,7 @@ them.
 Nothing checks this entry against the suite, for the reason Entry 1 states. A
 change to any assertion named above moves this entry in the same commit, and
 [blog/factor-models-lessons.md](../blog/factor-models-lessons.md) moves with
-it, since that post's Lessons 3 and 4 quote these figures. So does its one
-figure, which `uv run python -m chan.momentum_factor_figures` redraws.
+it, since that post quotes most of these figures. So does its one figure, which `uv run python -m chan.momentum_factor_figures` redraws.
 
 ## Entry 15: calendar spreads, Chan's *Quantitative Trading*
 
